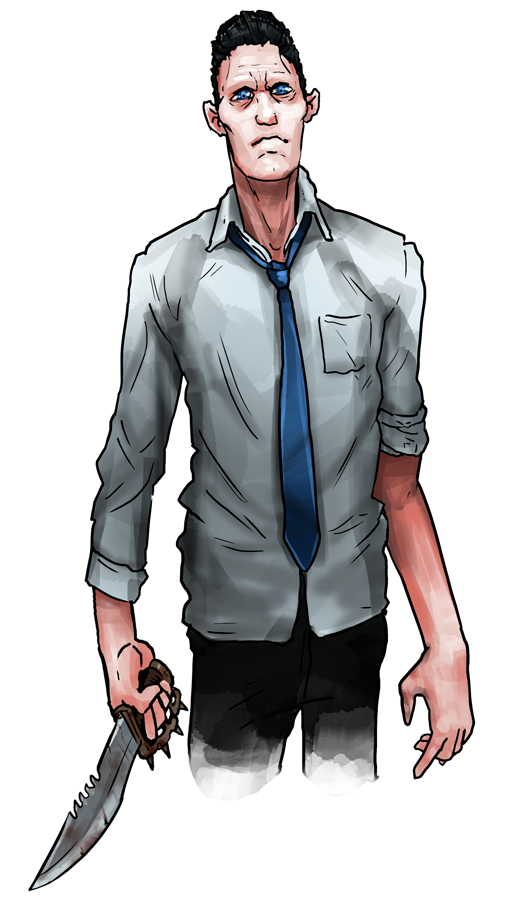
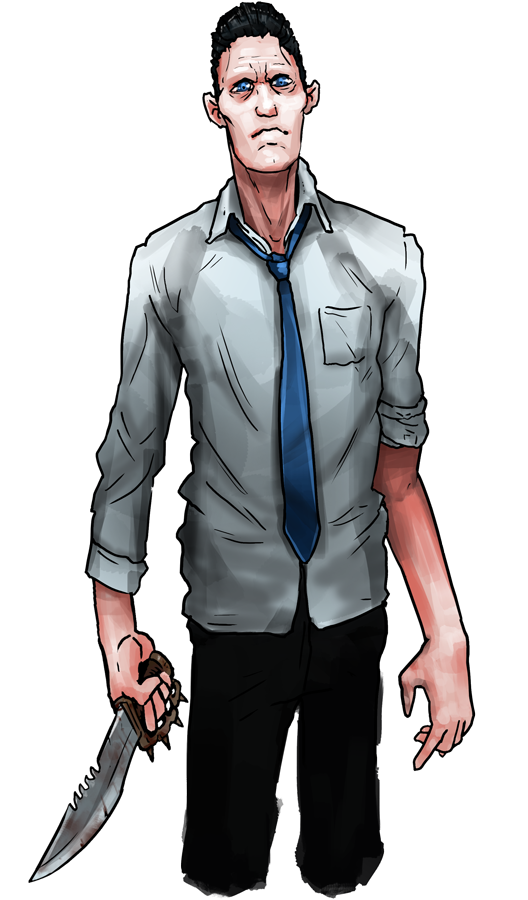
attacking stranger

Changed region(s): [[0.0606, 0.0, 0.9091, 1.0]]

diff --git a/WebContent/js/utils/Resources.js b/WebContent/js/utils/Resources.js
@@ -111,6 +111,7 @@ var DIALOG_IMAGES = {};
 	DIALOG_IMAGES["JOE-SHOCKED"] = "joe-shocked";
 	
 	DIALOG_IMAGES["STRANGER"] = "stranger";
+	DIALOG_IMAGES["STRANGER-ATTACKING"] = "stranger-attacking";
 	
 var DIALOG_BACKGROUNDS = {};
 	DIALOG_BACKGROUNDS["ALBERT"] = "rgba(54, 113, 136, 0.5)";
